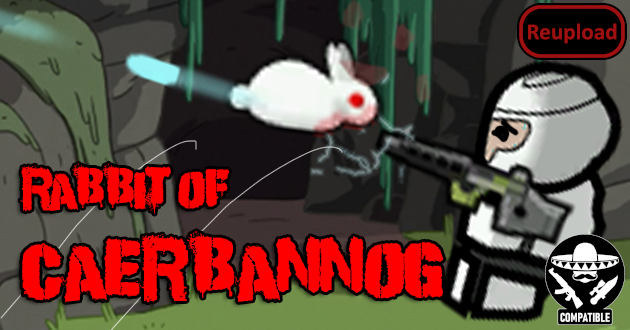
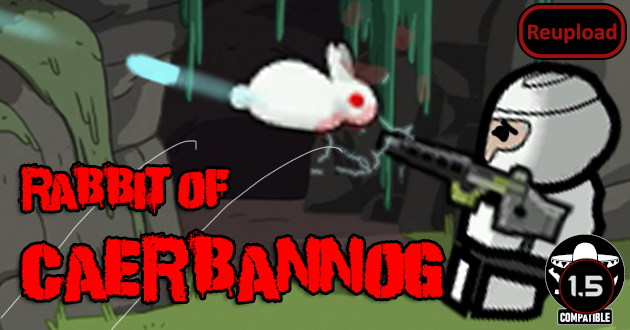
Mod updated for 1.5 and passed autotests Used DeepL to update translations for ChineseSimplified, French, German

Changed region(s): [[0.8746, 0.7576, 0.9952, 0.9697]]

diff --git a/Source/KillerRabbit/KillerRabbitsDefOf.cs b/Source/KillerRabbit/KillerRabbitsDefOf.cs
@@ -7,4 +7,9 @@ namespace KillerRabbits;
 public static class KillerRabbitsDefOf
 {
     public static PawnKindDef Rabbit_of_Caerbannog;
+
+    static KillerRabbitsDefOf()
+    {
+        DefOfHelper.EnsureInitializedInCtor(typeof(KillerRabbitsDefOf));
+    }
 }

diff --git a/README.md b/README.md
@@ -64,11 +64,13 @@ This mod adds the Rabbit of Caerbannog from the movie titled ***Monty Python and
 
 -  See if the the error persists if you just have this mod and its requirements active.
 -  If not, try adding your other mods until it happens again.
--  Post your error-log using https://steamcommunity.com/workshop/filedetails/?id=818773962]HugsLib and command Ctrl+F12
+-  Post your error-log using https://steamcommunity.com/workshop/filedetails/?id=818773962]HugsLib or the standalone https://steamcommunity.com/sharedfiles/filedetails/?id=2873415404]Uploader and command Ctrl+F12
 -  For best support, please use the Discord-channel for error-reporting.
 -  Do not report errors by making a discussion-thread, I get no notification of that.
 -  If you have the solution for a problem, please post it to the GitHub repository.
+-  Use https://github.com/RimSort/RimSort/releases/latest]RimSort to sort your mods
 
 
 
+https://steamcommunity.com/sharedfiles/filedetails/changelog/2361380276]![Image](https://img.shields.io/github/v/release/emipa606/RabbitOfCaerbannogIncident?label=latest%20version&style=plastic&color=9f1111&labelColor=black)
 
